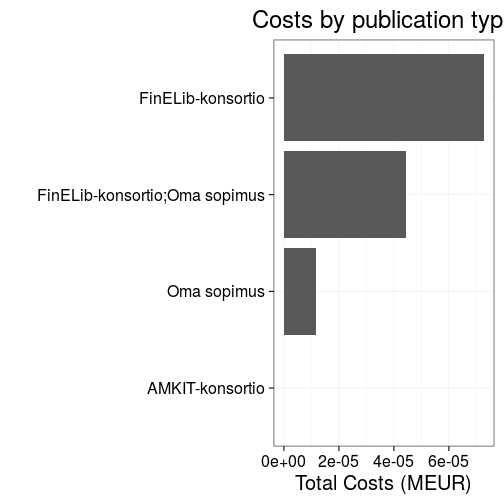
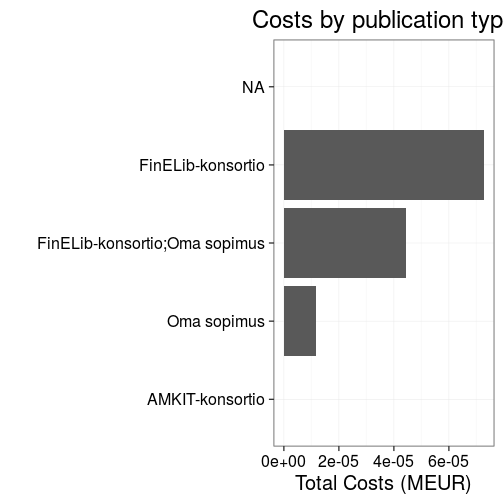
ok

diff --git a/20160610/foi.md b/20160610/foi.md
@@ -16,6 +16,11 @@ FOI request
 
 ### Total costs by organization 2010-2015
 
+
+```
+## Warning: Removed 16 rows containing missing values (position_stack).
+```
+
 <img src="figure/foi-totalcosts-1.png" title="plot of chunk foi-totalcosts" alt="plot of chunk foi-totalcosts" width="300px" /><img src="figure/foi-totalcosts-2.png" title="plot of chunk foi-totalcosts" alt="plot of chunk foi-totalcosts" width="300px" /><img src="figure/foi-totalcosts-3.png" title="plot of chunk foi-totalcosts" alt="plot of chunk foi-totalcosts" width="300px" /><img src="figure/foi-totalcosts-4.png" title="plot of chunk foi-totalcosts" alt="plot of chunk foi-totalcosts" width="300px" /><img src="figure/foi-totalcosts-5.png" title="plot of chunk foi-totalcosts" alt="plot of chunk foi-totalcosts" width="300px" />
 
  * [Total costs by organization (complete table)](table/cost_by_organization.csv).
